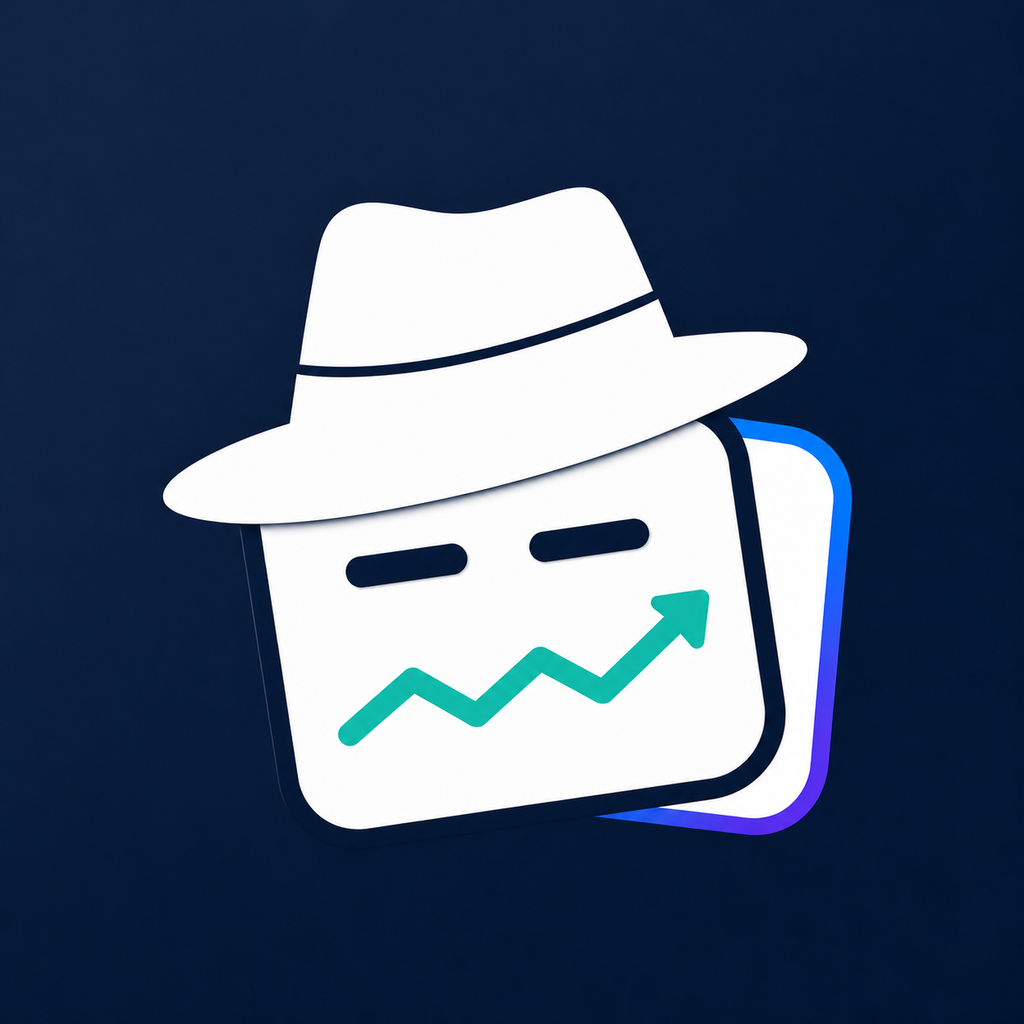
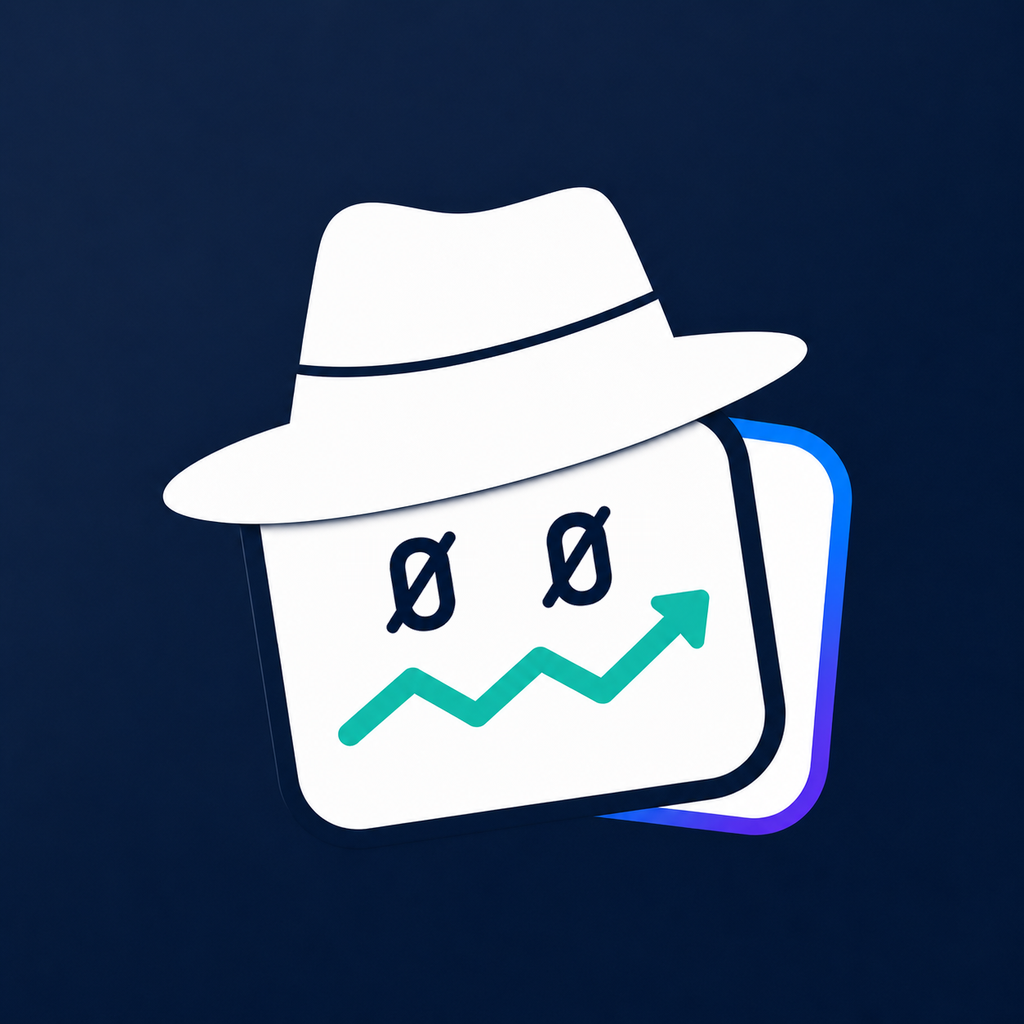
Update brand mark with slashed-zero eyes

Changed region(s): [[0.5, 0.5, 0.6562, 0.5938], [0.3438, 0.5, 0.4688, 0.625]]

diff --git a/scripts/generate-brand-assets.py b/scripts/generate-brand-assets.py
@@ -204,6 +204,7 @@ def generate() -> None:
     save(wordmark_transparent, BRAND_DIR / "wordmark-horizontal-transparent.png")
 
     save(app_icon, REPO_ROOT / "ios/Resources/App/Assets.xcassets/AppIcon.appiconset/Icon-1024.png", opaque=True)
+    save(app_icon, REPO_ROOT / "ios/Resources/Clip/Assets.xcassets/AppIcon.appiconset/Icon-1024.png", opaque=True)
 
     tv_assets = REPO_ROOT / "ios/Resources/TV/Assets.xcassets/App Icon & Top Shelf Image.brandassets"
     back_store = dark_background((2560, 1536)).convert("RGB")

diff --git a/docs/brand/README.md b/docs/brand/README.md
@@ -19,7 +19,7 @@ Use this exact wording — no rephrasing. It appears in:
 ## Identity
 
 U2 is the **Two-Card Agent**: two overlapping widget cards, an oversized
-secret-agent fedora, two horizontal eyes, and a teal rising trend line. The
+secret-agent fedora, two slashed-zero eyes, and a teal rising trend line. The
 approved artwork is intentionally friendly and slightly organic. Do not redraw
 it as hard geometric primitives or alter its proportions.
 
